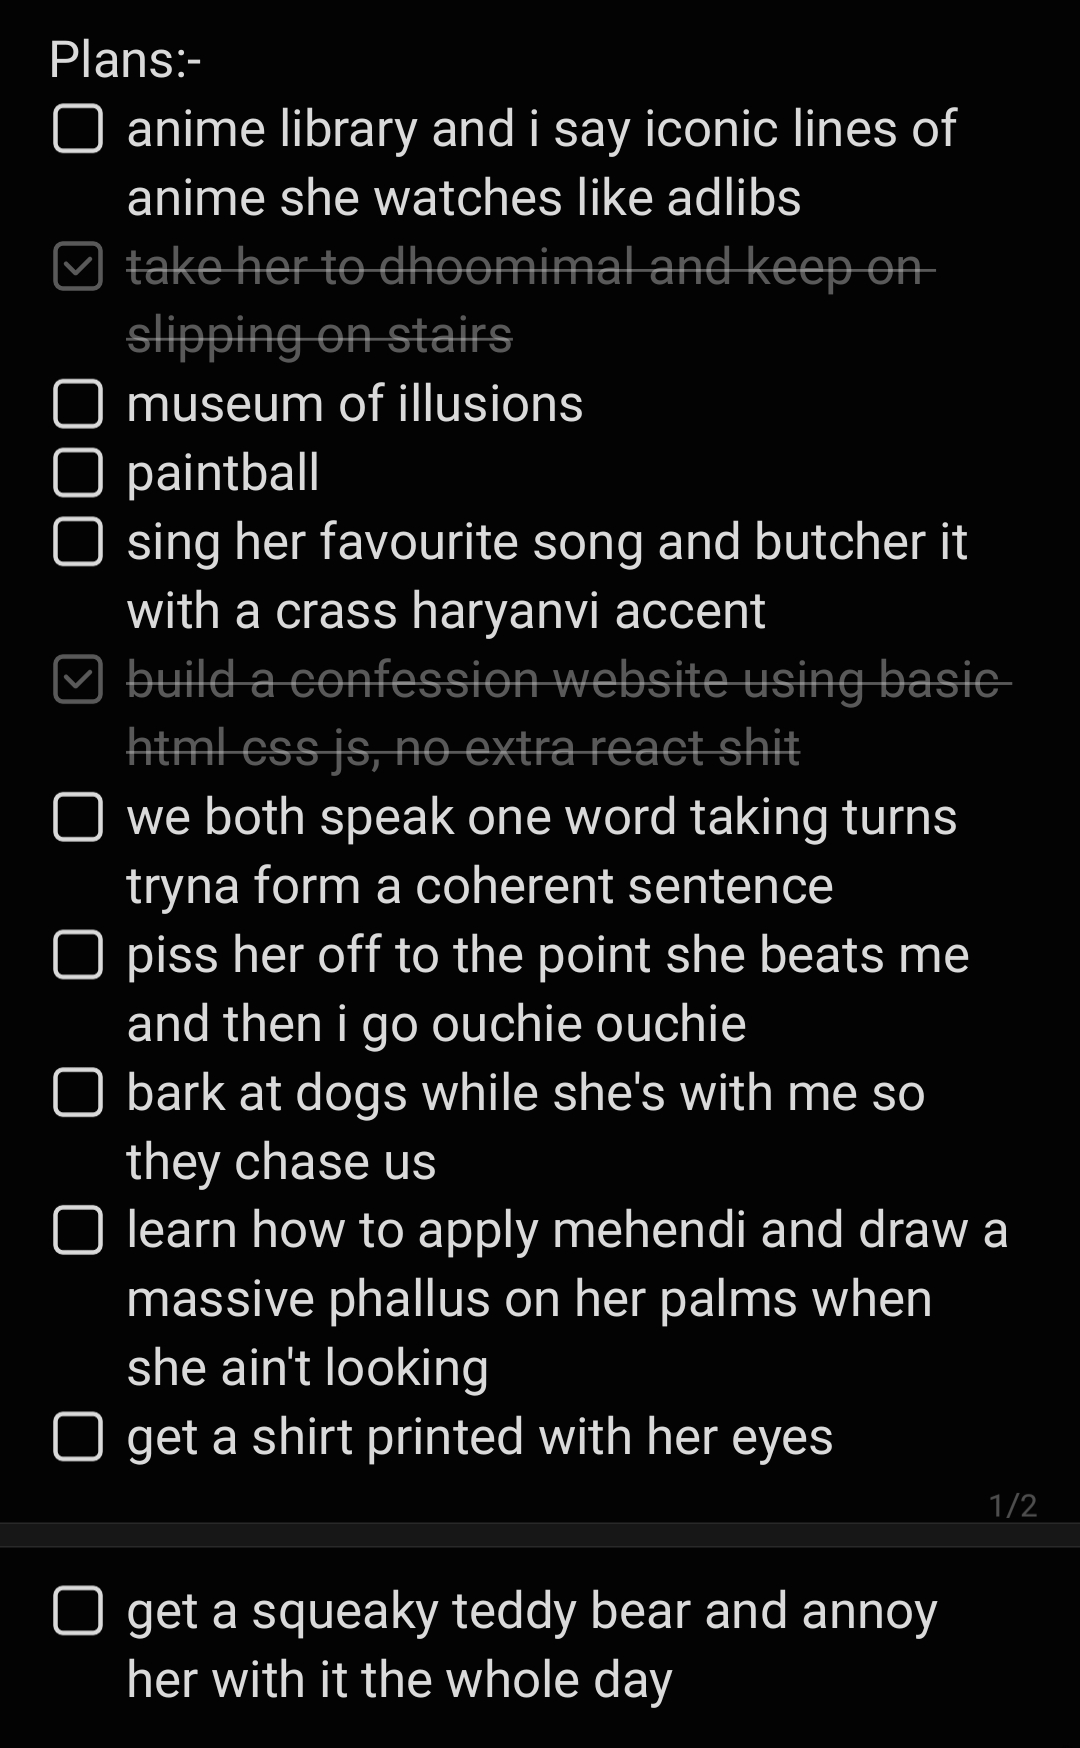
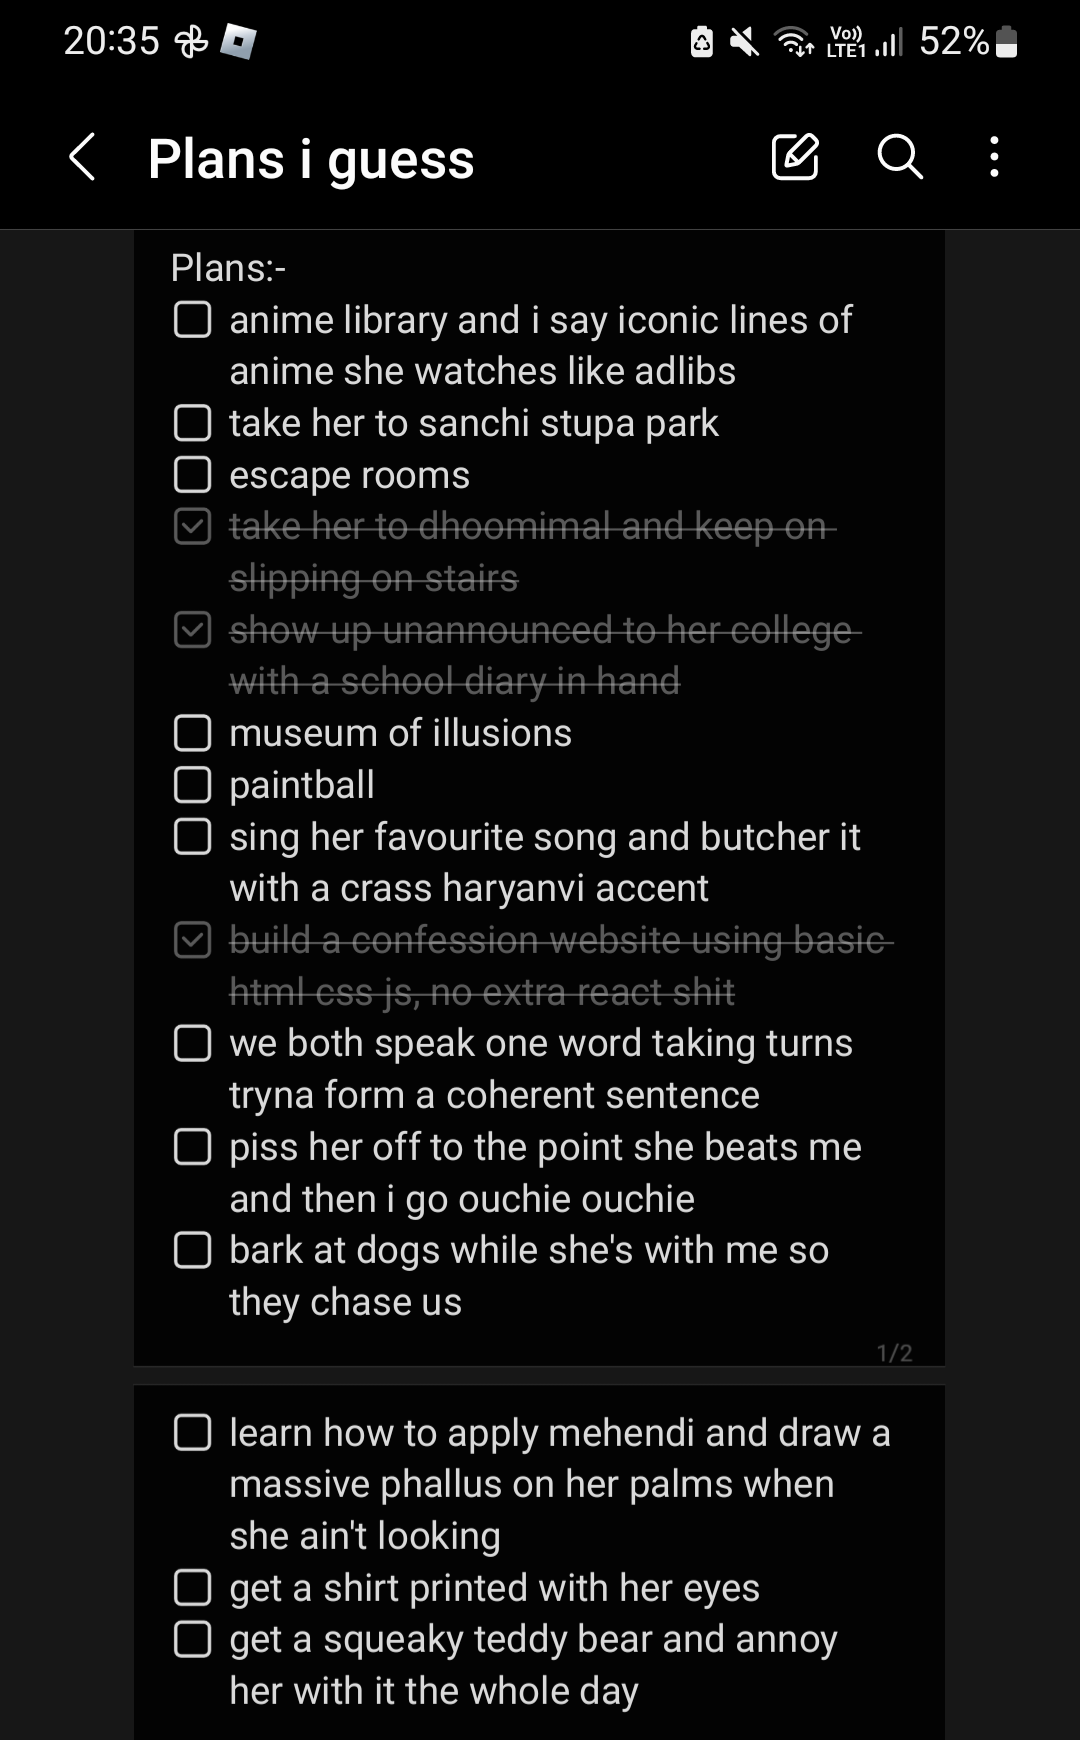
FUck AI

diff --git a/src/App.tsx b/src/App.tsx
@@ -44,8 +44,8 @@ function App() {
   ];
   const totalPapers = paperPages.length;
   const reelEntries = [
-    { image: '/images/reel/reel-01.png', caption: 'You are "ykw". I physically trembled taking your name even in chat.' },
-    { image: '/images/reel/reel-02.png', caption: '' },
+    { image: '/images/reel/reel-01.png', caption: '' },
+    { image: '/images/reel/reel-02.png', caption: 'You are "ykw". I physically trembled taking your name even in chat.' },
     { image: '/images/reel/reel-03.png', caption: '' },
     { image: '/images/reel/reel-04.png', caption: '' },
     { image: '/images/reel/reel-05.png', caption: '' },
@@ -56,6 +56,7 @@ function App() {
     { image: '/images/reel/reel-12.png', caption: 'I sent myself a voice note everyday for 30 days talking about you and what is ahead of us until I confessed.' },
     { image: '/images/reel/reel-13.png', caption: 'Reading research about the psychology of the menstrual cycle and how to behave.' },
     { image: '/images/reel/reel-14.png', caption: 'Another research reading of the cognitive effect of sharing negative emotions and how to talk about it.' },
+    { image: '/images/reel/reel-15.png', caption: '' },
   ];
   const revealMessage =
     'Behind the scenes of my love..';
